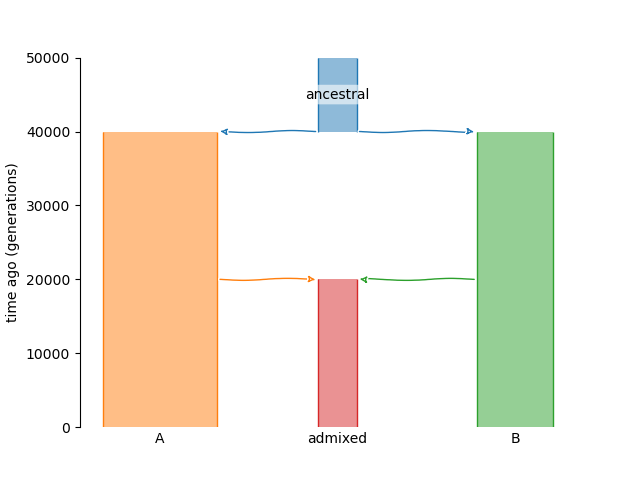
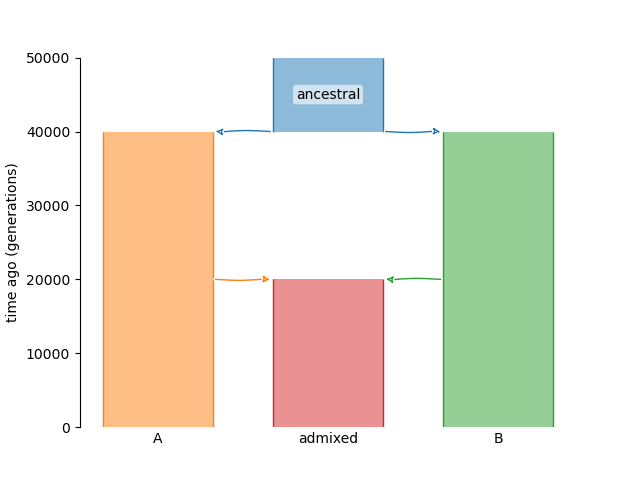
updating demesdraw draft figs

Changed region(s): [[0.3125, 0.0938, 0.75, 0.9375], [0.7812, 0.9062, 0.8125, 0.9375], [0.2188, 0.9062, 0.25, 0.9375]]

diff --git a/15.demographic_inference/viz_dem_models_with_demesdraw.py b/15.demographic_inference/viz_dem_models_with_demesdraw.py
@@ -4,11 +4,10 @@ import matplotlib.pyplot as plt
 import msprime_models as msm
 
 def main():
-    dems = {"one-population": msm.get_one_population_dem(1e4, [3, 2]),
-            "split": msm.get_split_dem(1e4, [3, 2, 1, 1]),
-            "split-asymmig": msm.get_split_asymmig_dem(1e4, [3, 2, 1, 1, 0.5]),
-            "admixture": msm.get_admixture_dem(1e4, [3, 2, 1, 2, 1, 0, 0, 0.1]),
-            "two-splits": msm.get_two_splits_dem(1e4, [3, 2, 1, 2, 1, 0.5, 1, 0])}
+    dems = {"one-population": msm.get_one_population_dem(1e4, [2, 1]),
+            "split": msm.get_split_dem(1e4, [1, 1, 1, 1]),
+            "admixture": msm.get_admixture_dem(1e4, [1, 1, 1, 2, 1, 0, 0, 0.5]),
+            "two-splits": msm.get_two_splits_dem(1e4, [1, 1, 1, 1, 2, 1, 1, 1])}
     output_dir = "draft_figures/"
 
     viz_dem_models_with_demesdraw(dems, output_dir)

diff --git a/15.demographic_inference/msprime_models.py b/15.demographic_inference/msprime_models.py
@@ -22,8 +22,9 @@ def get_split_asymmig_dem(n_anc, params):
     dem = msprime.Demography()
     dem.add_population(name="A", initial_size=n_anc*nu1)  # pop1 at present time
     dem.add_population(name="B", initial_size=n_anc*nu2)  # pop2 at present time
-    dem.add_population(name="C", initial_size=n_anc)  # ancestral pop
-    dem.add_population_split(time=2*n_anc*T, derived=["A", "B"], ancestral="C")
+    dem.add_population(name="ancestral", initial_size=n_anc)  # ancestral pop
+    dem.add_population_split(time=2*n_anc*T, derived=["A", "B"], ancestral="ancestral")
+
     # These migration rates are backwards-in-time, so they should be swapped when
     # interpreted in natural units!
     dem.set_migration_rate(source="A", dest="B", rate=m_A_to_B/(2*n_anc))
